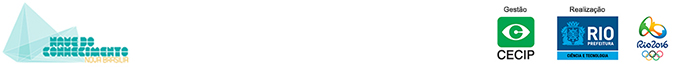
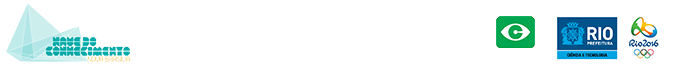
v2015 - atualização de imagens e hashtag

diff --git a/assets/main.js b/assets/main.js
@@ -1,15 +1,17 @@
 // main.js
 var numElements = 0;
+var SETUP_CID = "fd210a3d496047b0ab38826f67155865"
+var SETUP_HASHTAG = "circulandomemorias";
 
 function createPhotoElement(photo) {
-  var randomNumber = Math.floor(Math.random() * 10) + 1;  
+  var randomNumber = Math.floor(Math.random() * 10) + 1;
   var hRand = Math.random();
   var heightClass = hRand > 0.85 ? 'grid-item--height3' : hRand > 0.5 ? 'grid-item--height2' : '';
   var innerHtml = $('<img>')
-    .addClass('instagram-image')    
+    .addClass('instagram-image')
     .attr('src', photo.images.low_resolution.url);
 
-  innerHtml = $('<a>')    
+  innerHtml = $('<a>')
     .attr('target', '_blank')
     .attr('href', photo.link)
     .append(innerHtml);
@@ -32,8 +34,8 @@ function didLoadInstagram(event, response) {
 }
 
 function getInstagramPhotos() {
-	var CLIENT_ID = "fd210a3d496047b0ab38826f67155865",
-    	hashtag = "doglovers";
+	var CLIENT_ID = SETUP_CID,
+    	hashtag = SETUP_HASHTAG;
 
 	$('.instagram.tag').on('didLoadInstagram', didLoadInstagram);
 	$('.instagram.tag').instagram({
@@ -44,7 +46,7 @@ function getInstagramPhotos() {
 }
 
 
-$(document).ready(function() {    
+$(document).ready(function() {
 
 	var $grid = $('.grid'),
       $removeElement,
@@ -60,7 +62,7 @@ $(document).ready(function() {
   		  masonry: {
   		  	columnWidth: 170
   		  }
-  		});      
+  		});
     }, 3000);
 
     //depois de 15s faz refresh na página
@@ -69,7 +71,7 @@ $(document).ready(function() {
           opacity: 0
       }, 1000, function() {
         location.reload();
-      });      
+      });
     }, 100000);
 
 });

diff --git a/assets/style.css b/assets/style.css
@@ -1,8 +1,13 @@
 * {
   -webkit-box-sizing: border-box;
      -moz-box-sizing: border-box;
-          box-sizing: border-box;			
+          box-sizing: border-box;
 }
+
+body {
+  background-color: black;
+}
+
 
 .grid {
   max-width: 1200px;
@@ -29,6 +34,14 @@
 		height: auto;
 }
 
+.marcatexto {
+	box-shadow: 15px 0 0 0 #000, -5px 0 0 0 #000;
+	background: #000;
+	display: inline;
+	padding: 3px 0 !important;
+	position: relative;
+}
+
 .navbar {
 	background: url('../images/bbg.jpg');
 	color: white;
@@ -37,15 +50,15 @@
 }
 
 .navbar span.ht {
-	font-family: 'Lobster', cursive;
+	font-family: 'Lato', sans-serif;
 	color: white;
-	font-size: 20px;
-	color: #00adef;
+	font-size: 1.3em;
+	color: #d1b048;
 }
 
 .navbar span.ht > span {
-	font-size: 40px;
-	color: #273382;
+	font-size: 2em;
+	color: #fff;
 }
 
 .navbar .hashtag {
@@ -56,7 +69,35 @@
 	bottom: 0;
 	position: fixed;
 	width: 100%;
-	border-top: 1px solid #a3a3a3;
+	border-top: 1px solid #000;
 	text-align: center;
-	background: white;
+	background: #004548;
+}
+
+/* Large Devices, Wide Screens */
+@media only screen and (max-width : 1200px) {
+
+}
+
+/* Medium Devices, Desktops */
+@media only screen and (max-width : 992px) {
+
+}
+
+/* Small Devices, Tablets */
+@media only screen and (max-width : 768px) {
+
+}
+
+/* Extra Small Devices, Phones */
+@media only screen and (max-width : 480px) {
+  .logo,
+  .navbar .hashtag {
+    text-align: center;
+  }
+}
+
+/* Custom, iPhone Retina */
+@media only screen and (max-width : 320px) {
+
 }

diff --git a/index.html b/index.html
@@ -1,9 +1,9 @@
 <!DOCTYPE html>
 <html>
 <head>
-	<title>InstaNave - #memoriasexpo</title>
+	<title>InstaNave - #circulandomemorias</title>
 	<meta charset="utf-8">
-	<link href='http://fonts.googleapis.com/css?family=Lobster' rel='stylesheet' type='text/css'>
+	<link href='https://fonts.googleapis.com/css?family=Lato' rel='stylesheet' type='text/css'>
 	<link rel="stylesheet" type="text/css" href="assets/components/bootstrap/dist/css/bootstrap.min.css">
 	<link rel="stylesheet" type="text/css" href="assets/style.css">
 </head>
@@ -12,11 +12,11 @@
 <div class="nav navbar">
 	<div class="container">
 		<div class="row">
-			<div class="col-xs-4">
+			<div class="col-lg-4 col-md-4 col-sm-12 col-xs-12 logo">
 				<img src="images/logo-memorias.png">
 			</div>
-			<div class="col-xs-8 hashtag">
-				<span class="ht">Use a Hashtag <span>#memoriasexpo</span></span>
+			<div class="col-lg-8 col-md-8 col-sm-12 col-xs-12 hashtag">
+				<span class="ht marcatexto">Use a Hashtag <span class="marcatexto">&nbsp; #circulandomemorias</span></span>
 			</div>
 		</div>
 	</div>

diff --git a/README.md b/README.md
@@ -13,10 +13,10 @@ uma hashtag específica.
   Você vai precisar configurar um CLIENT_ID do seu usuário do Instagram,
   e também definir a hasgtag de captura.
 
-  Ambas configurações estão no arquivo **'main.js'**
+  Ambas configurações estão no arquivo **'/assets/main.js'**
 
-  `var CLIENT_ID = "fd210a3d496047b0ab38826f67155865",`
-  `hashtag = "doglovers";`
+  `var SETUP_CID = "fd210a3d496047b0ab38826f67155865"`
+  `var SETUP_HASHTAG = "circulandomemorias";`
 
 ####Personalizações
  Personalize o projeto alterando as imagens **bbg.jpg** e **logo-memorias.png**
